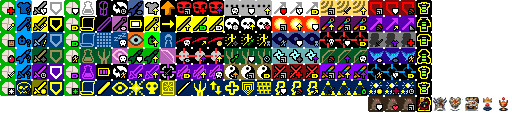
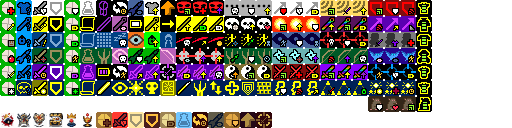
Fix E.D. sprite frames and expand talent artwork

Changed region(s): [[0.0, 0.875, 0.5312, 1.0], [0.8125, 0.75, 1.0, 0.875]]

diff --git a/core/src/main/java/com/shatteredpixel/shatteredpixeldungeon/actors/hero/Talent.java b/core/src/main/java/com/shatteredpixel/shatteredpixeldungeon/actors/hero/Talent.java
@@ -203,10 +203,10 @@ public enum Talent {
 	RATSISTANCE(215, 4), RATLOMACY(216, 4), RATFORCEMENTS(217, 4),
 
 	//E.D. Broken Crown T3 (永恒的像素地牢 mod)
-	// Keep the mod icons in unused atlas slots instead of reusing the base game's icons.
-	CROWN_OF_THORNS(218, 3), THRONE_ECHO(219, 3), PAINBORN(220, 3),
+	// 218 is reserved by Ratmogrify; E.D. uses unused atlas slots 224 onward.
+	CROWN_OF_THORNS(224, 3), THRONE_ECHO(225, 3), PAINBORN(226, 3),
 	//E.D. Usurper T3
-	GREEDY_VAULT(221, 3), TYRANTS_TOLL(222, 3), BLOOD_TRIBUTE(223, 3);
+	GREEDY_VAULT(227, 3), TYRANTS_TOLL(228, 3), BLOOD_TRIBUTE(229, 3);
 
 	public static class ImprovisedProjectileCooldown extends FlavourBuff{
 		public int icon() { return BuffIndicator.TIME; }
@@ -470,8 +470,44 @@ public enum Talent {
 				case CLERIC:
 					return 186;
 			}
+		} else if (usesEDPresentation()) {
+			switch (this){
+				case HEARTY_MEAL:            return 230;
+				case PROVOKED_ANGER:         return 231;
+				case IRON_WILL:              return 232;
+				case AGGRESSIVE_BARRIER:     return 233;
+				case FOCUSED_MEAL:           return 234;
+				case LIQUID_WILLPOWER:       return 235;
+				case LETHAL_MOMENTUM:        return 236;
+				case IMPROVISED_PROJECTILES: return 237;
+				case IRON_STOMACH:           return 238;
+				case STRONGMAN:              return 239;
+				case DEADLY_FOLLOWUP:        return 240;
+			}
+			return icon;
 		} else {
 			return icon;
+		}
+	}
+
+	private boolean usesEDPresentation(){
+		HeroClass cls = Dungeon.hero != null ? Dungeon.hero.heroClass : GamesInProgress.selectedClass;
+		if (cls != HeroClass.ED) return false;
+		switch (this){
+			case HEARTY_MEAL:
+			case PROVOKED_ANGER:
+			case IRON_WILL:
+			case AGGRESSIVE_BARRIER:
+			case FOCUSED_MEAL:
+			case LIQUID_WILLPOWER:
+			case LETHAL_MOMENTUM:
+			case IMPROVISED_PROJECTILES:
+			case IRON_STOMACH:
+			case STRONGMAN:
+			case DEADLY_FOLLOWUP:
+				return true;
+			default:
+				return false;
 		}
 	}
 
@@ -483,6 +519,9 @@ public enum Talent {
 		if (this == HEROIC_ENERGY && Ratmogrify.useRatroicEnergy){
 			return Messages.get(this, name() + ".rat_title");
 		}
+		if (usesEDPresentation()){
+			return Messages.get(this, name() + ".ed_title");
+		}
 		return Messages.get(this, name() + ".title");
 	}
 
@@ -491,6 +530,9 @@ public enum Talent {
 	}
 
 	public String desc(boolean metamorphed){
+		if (usesEDPresentation()){
+			return Messages.get(this, name() + ".ed_desc");
+		}
 		if (metamorphed){
 			String metaDesc = Messages.get(this, name() + ".meta_desc");
 			if (!metaDesc.equals(Messages.NO_TEXT_FOUND)){

diff --git a/core/src/main/java/com/shatteredpixel/shatteredpixeldungeon/sprites/ItemSpriteSheet.java b/core/src/main/java/com/shatteredpixel/shatteredpixeldungeon/sprites/ItemSpriteSheet.java
@@ -460,6 +460,7 @@ public class ItemSpriteSheet {
 	public static final int ARTIFACT_ROSE3      = ARTIFACTS+22;
 	public static final int ARTIFACT_TOME       = ARTIFACTS+23;
 	public static final int ARTIFACT_KEY        = ARTIFACTS+24;
+	public static final int ARTIFACT_ROYAL_TREASURE = ARTIFACTS+25;
 	static{
 		assignItemRect(ARTIFACT_CLOAK,      9,  15);
 		assignItemRect(ARTIFACT_ARMBAND,    16, 13);
@@ -486,6 +487,7 @@ public class ItemSpriteSheet {
 		assignItemRect(ARTIFACT_ROSE3,      14, 14);
 		assignItemRect(ARTIFACT_TOME,       14, 16);
 		assignItemRect(ARTIFACT_KEY,        8,  16);
+		assignItemRect(ARTIFACT_ROYAL_TREASURE, 16, 16);
 	}
 
 	private static final int TRINKETS        =                               xy(1, 18);  //32 slots

diff --git a/core/src/main/java/com/shatteredpixel/shatteredpixeldungeon/items/artifacts/RoyalTreasure.java b/core/src/main/java/com/shatteredpixel/shatteredpixeldungeon/items/artifacts/RoyalTreasure.java
@@ -19,8 +19,7 @@ import com.shatteredpixel.shatteredpixeldungeon.utils.GLog;
 public class RoyalTreasure extends Artifact {
 
 	{
-		// 占位图标：先复用荆棘斗篷的图标；做好自己的 16x16 图标后替换
-		image = ItemSpriteSheet.ARTIFACT_CAPE;
+		image = ItemSpriteSheet.ARTIFACT_ROYAL_TREASURE;
 
 		levelCap = 10;
 

diff --git a/core/src/main/java/com/shatteredpixel/shatteredpixeldungeon/ui/HeroIcon.java b/core/src/main/java/com/shatteredpixel/shatteredpixeldungeon/ui/HeroIcon.java
@@ -50,6 +50,8 @@ public class HeroIcon extends Image {
 	public static final int MONK        = 9;
 	public static final int PRIEST      = 10;
 	public static final int PALADIN     = 11;
+	public static final int BROKEN_CROWN= 12;
+	public static final int USURPER     = 13;
 
 	//abilities
 	public static final int HEROIC_LEAP     = 16;

diff --git a/core/src/main/java/com/shatteredpixel/shatteredpixeldungeon/actors/hero/HeroSubClass.java b/core/src/main/java/com/shatteredpixel/shatteredpixeldungeon/actors/hero/HeroSubClass.java
@@ -51,8 +51,8 @@ public enum HeroSubClass {
 	PALADIN(HeroIcon.PALADIN),
 
 	//E.D. (永恒的像素地牢 mod)
-	BROKEN_CROWN(HeroIcon.BERSERKER),
-	USURPER(HeroIcon.GLADIATOR);
+	BROKEN_CROWN(HeroIcon.BROKEN_CROWN),
+	USURPER(HeroIcon.USURPER);
 
 	int icon;
 
